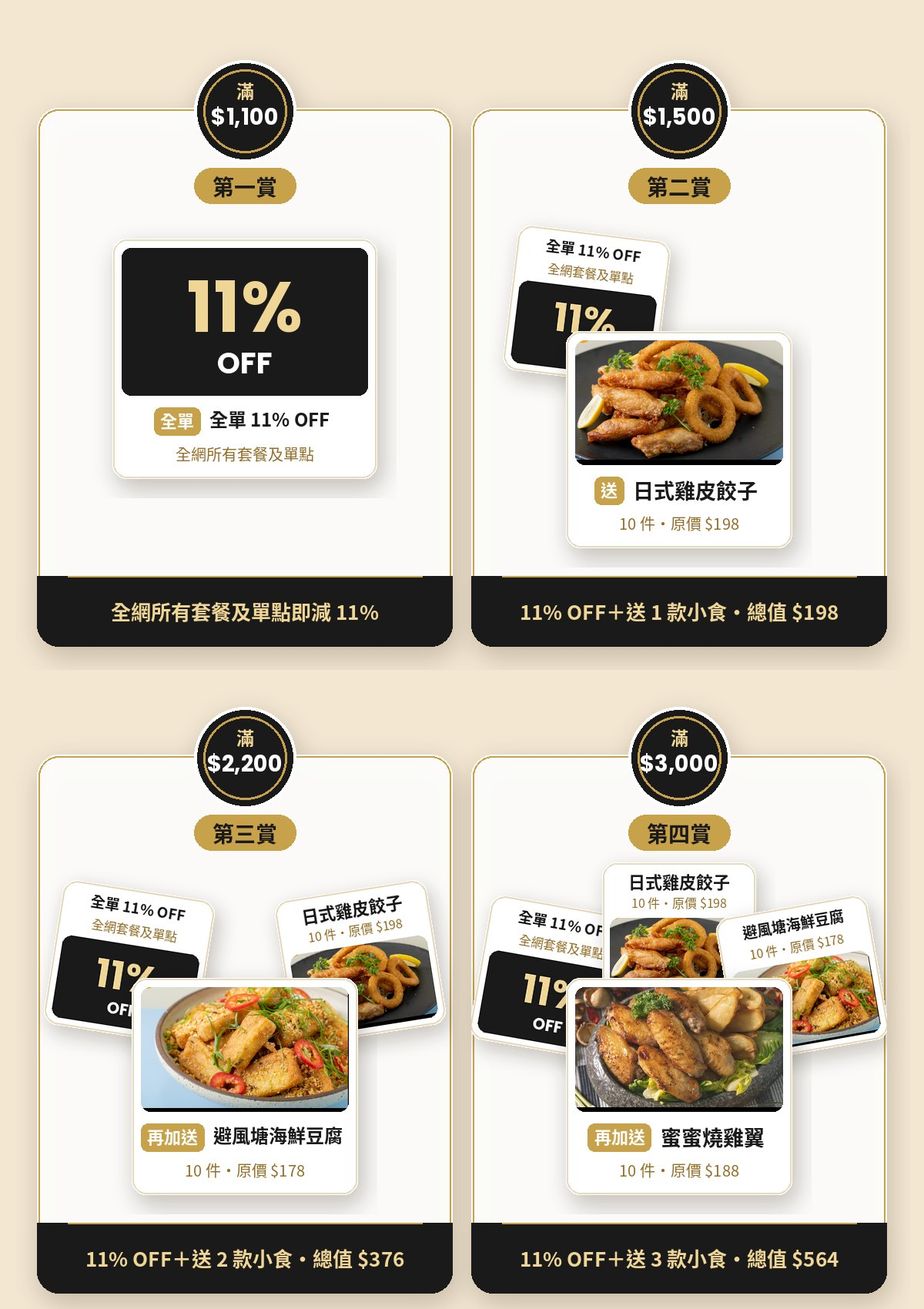
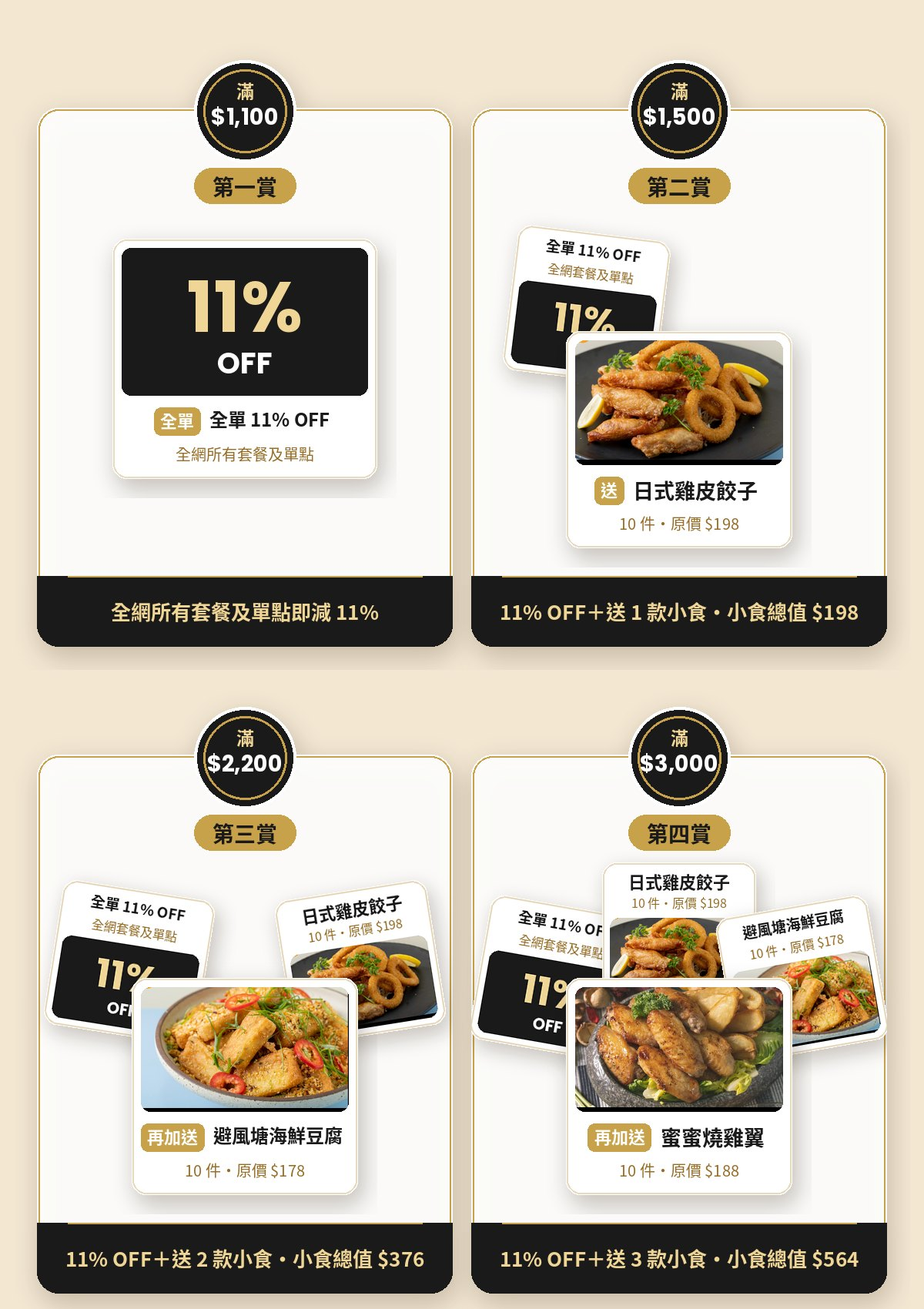
b

Changed region(s): [[0.555, 0.4365, 0.925, 0.4988], [0.0617, 0.9353, 0.4625, 0.9665], [0.555, 0.9353, 0.925, 0.9665]]

diff --git a/1111-2026/email.html b/1111-2026/email.html
@@ -63,7 +63,7 @@ Kitchen AO — 2026 雙 11 四重賞 EDM — Raw HTML for FluentCRM
 
 <!--[if mso]><table role="presentation" width="680" align="center" cellpadding="0" cellspacing="0"><tr><td><![endif]-->
 <table role="presentation" class="container" width="100%" cellpadding="0" cellspacing="0" style="width:100%;max-width:680px;margin:0 auto;background:#ffffff;border-radius:14px;overflow:hidden;font-family:Arial,'PingFang HK','Microsoft JhengHei',sans-serif;">
-<tr><td style="padding:14px 20px 12px;background:#ffffff;border-bottom:2px solid #C8A24A;"><table role="presentation" width="100%" cellpadding="0" cellspacing="0"><tr><td align="center" style="padding-bottom:11px;"><a href="https://aoaodelivery.com/?utm_source=edm&utm_medium=email&utm_campaign=1111_2026" target="_blank" rel="noopener noreferrer"><img class="hlogo" src="https://aoaodelivery.com/wp-content/uploads/2023/08/kitchenAO_logo_horizontal.png" width="185" alt="Kitchen AO" style="width:185px;height:auto;margin:0 auto;display:block;"></a></td></tr><tr><td align="center" class="nav"><table role="presentation" cellpadding="0" cellspacing="0" align="center" style="border-collapse:collapse;"><tr><td class="navblk" bgcolor="#1A1A1A" style="background:#1A1A1A;border-radius:6px 0 0 6px;"><a href="https://aoaodelivery.com/?utm_source=edm&utm_medium=email&utm_campaign=1111_2026" target="_blank" rel="noopener noreferrer" style="display:block;padding:8px 13px;color:#ffffff;font-size:14px;font-weight:bold;text-decoration:none;white-space:nowrap;">網站首頁</a></td><td class="navblk" bgcolor="#1A1A1A" style="background:#1A1A1A;border-left:1px solid #C8A24A;"><a href="https://aoaodelivery.com/1111/?utm_source=edm&utm_medium=email&utm_campaign=1111_2026" target="_blank" rel="noopener noreferrer" style="display:block;padding:8px 13px;color:#ffffff;font-size:14px;font-weight:bold;text-decoration:none;white-space:nowrap;">雙 11 優惠</a></td><td class="navgold" bgcolor="#C8A24A" style="background:#C8A24A;border-radius:0 6px 6px 0;border-left:1px solid #ffffff;"><a href="https://wa.me/85269011987?text=%E4%BD%A0%E5%A5%BD%EF%BC%8C%E6%88%91%E6%83%B3%E6%9F%A5%E8%A9%A2%E9%9B%99%2011%20%E5%B9%B4%E5%B0%BE%E9%A3%AF%E5%B1%80%E9%A0%90%E8%B3%BC" target="_blank" rel="noopener noreferrer" style="display:block;padding:8px 13px;color:#1A1A1A;font-size:14px;font-weight:bold;text-decoration:none;white-space:nowrap;">WhatsApp</a></td></tr></table></td></tr></table></td></tr><tr><td style="padding:11px 24px;background:#FBF7EE;border-bottom:1px solid #EEE6D6;"><div style="font-size:14.5px;color:#1A1A1A;font-weight:bold;">{{contact.first_name|"朋友"}}，你好 👋</div><div style="font-size:13.5px;color:#9A8f7e;margin-top:3px;">電子報・2026 年 11 月・雙 11 優惠號</div></td></tr><tr><td style="padding:0;background:#F3E7D2;font-size:0;line-height:0;"><a href="https://aoaodelivery.com/1111/?utm_source=edm&utm_medium=email&utm_campaign=1111_2026" target="_blank" rel="noopener noreferrer"><img src="https://expandsolutionshk.github.io/kitchenao-edm/1111-2026/img/d11-kv.jpg" width="680" alt="11.11 一連七天：滿 HK$1,100 全網 11% OFF，滿 HK$1,500 起再送人氣小食，最多送 3 款" style="width:100%;max-width:680px;height:auto;display:block;border:0;"></a></td></tr><tr><td style="padding:22px 22px 26px;background:#F3E7D2;"><table role="presentation" width="100%" cellpadding="0" cellspacing="0" style="background:#FBF7EE;border:2px solid #C8A24A;border-radius:16px;overflow:hidden;"><tr><td align="center" bgcolor="#1A1A1A" style="background:#1A1A1A;padding:12px 16px;color:#E4C77E;font-size:16px;font-weight:bold;letter-spacing:2px;">優惠期　2026.11.11 至 11.17</td></tr><tr><td align="center" valign="middle" style="padding:20px 16px 18px;"><p style="margin:0 0 4px;color:#9A7B2E;font-size:12px;font-weight:bold;letter-spacing:4px;">優惠碼</p><p style="margin:0;color:#1A1A1A;font-family:Arial,Helvetica,sans-serif;font-size:34px;line-height:40px;font-weight:bold;letter-spacing:5px;">DOUBLE11</p><p style="margin:6px 0 0;color:#9A8F7E;font-size:12.5px;">結帳時輸入優惠碼（長按或選取即可複製）</p></td></tr></table></td></tr><tr><td align="center" style="padding:34px 40px 6px;background:#ffffff;"><div style="width:46px;height:4px;border-radius:3px;background:#C8A24A;margin:0 auto 18px;"></div><p style="margin:0 auto;max-width:460px;color:#5d534d;font-size:15.5px;line-height:1.95;">多謝你一直支持 Kitchen AO。雙 11 一連七天，網站下單滿 HK$1,100，輸入優惠碼 DOUBLE11 即享全網 11% OFF；滿 HK$1,500 起更可額外獲贈人氣小食，會員優惠亦照常享用。</p></td></tr><tr><td align="center" style="padding:20px 30px 34px;background:#ffffff;"><table role="presentation" cellpadding="0" cellspacing="0" align="center" width="100%" style="margin:0 auto;width:100%;max-width:320px;"><tr><td align="center" bgcolor="#1A1A1A" style="background:#1A1A1A;border-radius:40px;"><a href="https://aoaodelivery.com/1111/?utm_source=edm&utm_medium=email&utm_campaign=1111_2026" target="_blank" rel="noopener noreferrer" style="display:block;padding:15px 20px;color:#E4C77E;font-size:18px;font-weight:bold;letter-spacing:2px;text-decoration:none;border-radius:40px;text-align:center;">立即網站下單</a></td></tr></table></td></tr><tr><td align="center" style="padding:30px 20px 10px;background:#F3E7D2;"><p style="margin:0 0 4px;color:#9A7B2E;font-size:12px;font-weight:bold;letter-spacing:3px;">FOUR REWARDS</p><p style="margin:0 0 4px;color:#1A1A1A;font-size:24px;line-height:32px;font-weight:800;">雙 11 四重賞</p><p style="margin:0 0 14px;color:#7A6A50;font-size:14.5px;line-height:21px;">一連七天，網站下單結帳時輸入優惠碼，系統按訂單金額自動計算。</p><table role="presentation" cellpadding="0" cellspacing="0" align="center" style="margin:0 auto;"><tr><td style="padding:6px 12px;color:#9A8F7E;font-size:12px;font-weight:bold;letter-spacing:2px;">優惠碼</td><td bgcolor="#1A1A1A" style="background:#1A1A1A;border-radius:10px;padding:10px 24px;color:#C8A24A;font-family:Arial,Helvetica,sans-serif;font-size:26px;line-height:30px;font-weight:bold;letter-spacing:4px;">DOUBLE11</td></tr></table></td></tr><tr><td style="padding:16px 0 0;background:#F3E7D2;font-size:0;line-height:0;"><a href="https://aoaodelivery.com/1111/?utm_source=edm&utm_medium=email&utm_campaign=1111_2026" target="_blank" rel="noopener noreferrer"><img src="https://expandsolutionshk.github.io/kitchenao-edm/1111-2026/img/d11-rewards.jpg" width="680" alt="雙 11 四重賞：第一賞滿 HK$1,100 全單 11% OFF；第二賞滿 HK$1,500 送日式雞皮餃子 10 件（原價 $198）；第三賞滿 HK$2,200 再加送避風塘海鮮豆腐 10 件（原價 $178）；第四賞滿 HK$3,000 再加送蜜蜜燒雞翼 10 件（原價 $188）" style="width:100%;max-width:680px;height:auto;display:block;border:0;"></a></td></tr><tr><td style="padding:0 0 22px;background:#F3E7D2;font-size:0;line-height:0;">&nbsp;</td></tr><tr><td align="center" style="padding:30px 24px 6px;background:#ffffff;"><p style="margin:0 0 4px;color:#9A7B2E;font-size:12px;font-weight:bold;letter-spacing:3px;">MEMBER ZONE</p><p style="margin:0 0 6px;color:#1A1A1A;font-size:22px;line-height:30px;font-weight:800;">雙 11 優惠以外，會員優惠照常享用</p><p style="margin:0;color:#7A7268;font-size:14.5px;line-height:22px;">網站下單，「多買多賞」及舊會員專屬優惠可與雙 11 四重賞同時享用。</p></td></tr><tr><td style="padding:14px 20px 8px;background:#ffffff;"><a href="https://aoaodelivery.com/%e6%9c%80%e6%96%b0%e6%b6%88%e6%81%af/?utm_source=edm&utm_medium=email&utm_campaign=1111_2026" target="_blank" rel="noopener noreferrer"><img src="https://aoaodelivery.com/wp-content/uploads/2024/10/%E6%9C%83%E5%93%A1%E5%84%AA%E6%83%A0_%E5%B7%A5%E4%BD%9C%E5%8D%80%E5%9F%9F-1-2048x852.jpg" width="640" alt="多買多賞：網站下單每滿 HK$1,500 送精選堅果或薯片 1 包，每滿 HK$2,200 送「有得解」或冷泡茶 6 包，每滿 HK$3,000 送精選紅白葡萄酒 1 枝，無封頂" style="width:100%;max-width:640px;height:auto;display:block;border:0;border-radius:12px;"></a></td></tr><tr><td style="padding:8px 20px 26px;background:#ffffff;"><a href="https://aoaodelivery.com/%e6%9c%80%e6%96%b0%e6%b6%88%e6%81%af/?utm_source=edm&utm_medium=email&utm_campaign=1111_2026" target="_blank" rel="noopener noreferrer"><img src="https://aoaodelivery.com/wp-content/uploads/2024/10/%E6%9C%83%E5%93%A1%E5%84%AA%E6%83%A0-02-2048x852.jpg" width="640" alt="舊會員專屬優惠：上一張訂單金額每 HK$2,000，是次消費減 HK$100，如此類推" style="width:100%;max-width:640px;height:auto;display:block;border:0;border-radius:12px;"></a></td></tr><tr><td align="center" style="padding:18px 30px 6px;background:#ffffff;"><table role="presentation" width="100%" cellpadding="0" cellspacing="0" style="background:#FBF7EE;border:1px solid #C8A24A;border-radius:14px;"><tr><td align="left" style="padding:16px 18px;"><p style="margin:0;color:#8a5a00;font-size:15px;font-weight:700;line-height:1.9;">📅 優惠期：2026 年 11 月 11 日至 17 日<br>🏷 優惠碼：DOUBLE11<br>🎁 滿 HK$1,100 全網 11% OFF；滿 HK$1,500 起再送人氣小食<br>⭐ 會員多買多賞及舊會員優惠照常享用</p></td></tr></table></td></tr><tr><td align="center" style="padding:18px 30px 30px;background:#ffffff;"><table role="presentation" cellpadding="0" cellspacing="0" align="center" class="btn-primary" width="100%" style="margin:0 auto;width:100%;max-width:300px;"><tr><td align="center" style="border-radius:40px;"><a href="https://aoaodelivery.com/1111/?utm_source=edm&utm_medium=email&utm_campaign=1111_2026" target="_blank" rel="noopener noreferrer" style="display:block;padding:16px 20px;font-size:18px;font-weight:bold;letter-spacing:1px;text-decoration:none;border-radius:40px;text-align:center;">立即網站下單</a></td></tr></table><table role="presentation" cellpadding="0" cellspacing="0" align="center" width="100%" style="margin:10px auto 0;width:100%;max-width:300px;"><tr><td align="center" bgcolor="#ffffff" style="border-radius:40px;border:1px solid #1A1A1A;"><a href="https://wa.me/85269011987?text=%E4%BD%A0%E5%A5%BD%EF%BC%8C%E6%88%91%E6%83%B3%E6%9F%A5%E8%A9%A2%E9%9B%99%2011%20%E5%B9%B4%E5%B0%BE%E9%A3%AF%E5%B1%80%E9%A0%90%E8%B3%BC" target="_blank" rel="noopener noreferrer" style="display:block;padding:12px 20px;color:#1A1A1A;font-size:17px;font-weight:bold;letter-spacing:1px;text-decoration:none;border-radius:40px;text-align:center;">WhatsApp 查詢</a></td></tr></table></td></tr><tr><td style="padding:0 30px 26px;background:#ffffff;"><p style="margin:0;color:#9A8F7E;font-size:12px;line-height:19px;">條款：優惠只適用於 2026 年 11 月 11 日至 17 日期間於網站完成付款的訂單；贈品按單一訂單金額計算；贈品數量有限，送完即止，不可兌換現金；如有任何爭議，Kitchen AO 保留最終決定權。</p></td></tr>
+<tr><td style="padding:14px 20px 12px;background:#ffffff;border-bottom:2px solid #C8A24A;"><table role="presentation" width="100%" cellpadding="0" cellspacing="0"><tr><td align="center" style="padding-bottom:11px;"><a href="https://aoaodelivery.com/?utm_source=edm&utm_medium=email&utm_campaign=1111_2026" target="_blank" rel="noopener noreferrer"><img class="hlogo" src="https://aoaodelivery.com/wp-content/uploads/2023/08/kitchenAO_logo_horizontal.png" width="185" alt="Kitchen AO" style="width:185px;height:auto;margin:0 auto;display:block;"></a></td></tr><tr><td align="center" class="nav"><table role="presentation" cellpadding="0" cellspacing="0" align="center" style="border-collapse:collapse;"><tr><td class="navblk" bgcolor="#1A1A1A" style="background:#1A1A1A;border-radius:6px 0 0 6px;"><a href="https://aoaodelivery.com/?utm_source=edm&utm_medium=email&utm_campaign=1111_2026" target="_blank" rel="noopener noreferrer" style="display:block;padding:8px 13px;color:#ffffff;font-size:14px;font-weight:bold;text-decoration:none;white-space:nowrap;">網站首頁</a></td><td class="navblk" bgcolor="#1A1A1A" style="background:#1A1A1A;border-left:1px solid #C8A24A;"><a href="https://aoaodelivery.com/1111/?utm_source=edm&utm_medium=email&utm_campaign=1111_2026" target="_blank" rel="noopener noreferrer" style="display:block;padding:8px 13px;color:#ffffff;font-size:14px;font-weight:bold;text-decoration:none;white-space:nowrap;">雙 11 優惠</a></td><td class="navgold" bgcolor="#C8A24A" style="background:#C8A24A;border-radius:0 6px 6px 0;border-left:1px solid #ffffff;"><a href="https://wa.me/85269011987?text=%E4%BD%A0%E5%A5%BD%EF%BC%8C%E6%88%91%E6%83%B3%E6%9F%A5%E8%A9%A2%E9%9B%99%2011%20%E5%84%AA%E6%83%A0" target="_blank" rel="noopener noreferrer" style="display:block;padding:8px 13px;color:#1A1A1A;font-size:14px;font-weight:bold;text-decoration:none;white-space:nowrap;">WhatsApp</a></td></tr></table></td></tr></table></td></tr><tr><td style="padding:11px 24px;background:#FBF7EE;border-bottom:1px solid #EEE6D6;"><div style="font-size:14.5px;color:#1A1A1A;font-weight:bold;">{{contact.first_name|"朋友"}}，你好 👋</div><div style="font-size:13.5px;color:#9A8f7e;margin-top:3px;">電子報・2026 年 11 月・雙 11 優惠號</div></td></tr><tr><td style="padding:0;background:#F3E7D2;font-size:0;line-height:0;"><a href="https://aoaodelivery.com/1111/?utm_source=edm&utm_medium=email&utm_campaign=1111_2026" target="_blank" rel="noopener noreferrer"><img src="https://expandsolutionshk.github.io/kitchenao-edm/1111-2026/img/d11-kv.jpg" width="680" alt="11.11 一連七天：滿 HK$1,100 全網 11% OFF，滿 HK$1,500 起再送人氣小食，最多送 3 款" style="width:100%;max-width:680px;height:auto;display:block;border:0;"></a></td></tr><tr><td style="padding:22px 22px 26px;background:#F3E7D2;"><table role="presentation" width="100%" cellpadding="0" cellspacing="0" style="background:#FBF7EE;border:2px solid #C8A24A;border-radius:16px;overflow:hidden;"><tr><td align="center" bgcolor="#1A1A1A" style="background:#1A1A1A;padding:12px 16px;color:#E4C77E;font-size:16px;font-weight:bold;letter-spacing:2px;">優惠期　2026.11.11 至 11.17</td></tr><tr><td align="center" valign="middle" style="padding:20px 16px 18px;"><p style="margin:0 0 4px;color:#9A7B2E;font-size:12px;font-weight:bold;letter-spacing:4px;">優惠碼</p><p style="margin:0;color:#1A1A1A;font-family:Arial,Helvetica,sans-serif;font-size:34px;line-height:40px;font-weight:bold;letter-spacing:5px;">DOUBLE11</p><p style="margin:6px 0 0;color:#9A8F7E;font-size:12.5px;">結帳時輸入優惠碼（長按或選取即可複製）</p></td></tr></table></td></tr><tr><td align="center" style="padding:34px 40px 6px;background:#ffffff;"><div style="width:46px;height:4px;border-radius:3px;background:#C8A24A;margin:0 auto 18px;"></div><p style="margin:0 auto;max-width:460px;color:#5d534d;font-size:15.5px;line-height:1.95;">多謝你一直支持 Kitchen AO。雙 11 一連七天，網站下單滿 HK$1,100，輸入優惠碼 DOUBLE11 即享全網 11% OFF；滿 HK$1,500 起更可額外獲贈人氣小食，會員優惠亦照常享用。</p></td></tr><tr><td align="center" style="padding:20px 30px 34px;background:#ffffff;"><table role="presentation" cellpadding="0" cellspacing="0" align="center" width="100%" style="margin:0 auto;width:100%;max-width:320px;"><tr><td align="center" bgcolor="#1A1A1A" style="background:#1A1A1A;border-radius:40px;"><a href="https://aoaodelivery.com/1111/?utm_source=edm&utm_medium=email&utm_campaign=1111_2026" target="_blank" rel="noopener noreferrer" style="display:block;padding:15px 20px;color:#E4C77E;font-size:18px;font-weight:bold;letter-spacing:2px;text-decoration:none;border-radius:40px;text-align:center;">立即網站下單</a></td></tr></table></td></tr><tr><td align="center" style="padding:30px 20px 10px;background:#F3E7D2;"><p style="margin:0 0 4px;color:#9A7B2E;font-size:12px;font-weight:bold;letter-spacing:3px;">FOUR REWARDS</p><p style="margin:0 0 4px;color:#1A1A1A;font-size:24px;line-height:32px;font-weight:800;">雙 11 四重賞</p><p style="margin:0 0 14px;color:#7A6A50;font-size:14.5px;line-height:21px;">一連七天，網站下單結帳時輸入優惠碼，系統按訂單金額自動計算。</p><table role="presentation" cellpadding="0" cellspacing="0" align="center" style="margin:0 auto;"><tr><td style="padding:6px 12px;color:#9A8F7E;font-size:12px;font-weight:bold;letter-spacing:2px;">優惠碼</td><td bgcolor="#1A1A1A" style="background:#1A1A1A;border-radius:10px;padding:10px 24px;color:#C8A24A;font-family:Arial,Helvetica,sans-serif;font-size:26px;line-height:30px;font-weight:bold;letter-spacing:4px;">DOUBLE11</td></tr></table></td></tr><tr><td style="padding:16px 0 0;background:#F3E7D2;font-size:0;line-height:0;"><a href="https://aoaodelivery.com/1111/?utm_source=edm&utm_medium=email&utm_campaign=1111_2026" target="_blank" rel="noopener noreferrer"><img src="https://expandsolutionshk.github.io/kitchenao-edm/1111-2026/img/d11-rewards.jpg" width="680" alt="雙 11 四重賞：第一賞滿 HK$1,100 全單 11% OFF；第二賞滿 HK$1,500 送日式雞皮餃子 10 件（原價 $198）；第三賞滿 HK$2,200 再加送避風塘海鮮豆腐 10 件（原價 $178）；第四賞滿 HK$3,000 再加送蜜蜜燒雞翼 10 件（原價 $188）" style="width:100%;max-width:680px;height:auto;display:block;border:0;"></a></td></tr><tr><td style="padding:0 0 22px;background:#F3E7D2;font-size:0;line-height:0;">&nbsp;</td></tr><tr><td align="center" style="padding:30px 24px 6px;background:#ffffff;"><p style="margin:0 0 4px;color:#9A7B2E;font-size:12px;font-weight:bold;letter-spacing:3px;">MEMBER ZONE</p><p style="margin:0 0 6px;color:#1A1A1A;font-size:22px;line-height:30px;font-weight:800;">雙 11 優惠以外，會員優惠照常享用</p><p style="margin:0;color:#7A7268;font-size:14.5px;line-height:22px;">網站下單，「多買多賞」及舊會員專屬優惠可與雙 11 四重賞同時享用。</p></td></tr><tr><td style="padding:14px 20px 8px;background:#ffffff;"><a href="https://aoaodelivery.com/%e6%9c%80%e6%96%b0%e6%b6%88%e6%81%af/?utm_source=edm&utm_medium=email&utm_campaign=1111_2026" target="_blank" rel="noopener noreferrer"><img src="https://aoaodelivery.com/wp-content/uploads/2024/10/%E6%9C%83%E5%93%A1%E5%84%AA%E6%83%A0_%E5%B7%A5%E4%BD%9C%E5%8D%80%E5%9F%9F-1-2048x852.jpg" width="640" alt="多買多賞：網站下單每滿 HK$1,500 送精選堅果或薯片 1 包，每滿 HK$2,200 送「有得解」或冷泡茶 6 包，每滿 HK$3,000 送精選紅白葡萄酒 1 枝，無封頂" style="width:100%;max-width:640px;height:auto;display:block;border:0;border-radius:12px;"></a></td></tr><tr><td style="padding:8px 20px 26px;background:#ffffff;"><a href="https://aoaodelivery.com/%e6%9c%80%e6%96%b0%e6%b6%88%e6%81%af/?utm_source=edm&utm_medium=email&utm_campaign=1111_2026" target="_blank" rel="noopener noreferrer"><img src="https://aoaodelivery.com/wp-content/uploads/2024/10/%E6%9C%83%E5%93%A1%E5%84%AA%E6%83%A0-02-2048x852.jpg" width="640" alt="舊會員專屬優惠：上一張訂單金額每 HK$2,000，是次消費減 HK$100，如此類推" style="width:100%;max-width:640px;height:auto;display:block;border:0;border-radius:12px;"></a></td></tr><tr><td align="center" style="padding:18px 30px 6px;background:#ffffff;"><table role="presentation" width="100%" cellpadding="0" cellspacing="0" style="background:#FBF7EE;border:1px solid #C8A24A;border-radius:14px;"><tr><td align="left" style="padding:16px 18px;"><p style="margin:0;color:#8a5a00;font-size:15px;font-weight:700;line-height:1.9;">📅 優惠期：2026 年 11 月 11 日至 17 日<br>🏷 優惠碼：DOUBLE11<br>🎁 滿 HK$1,100 全網 11% OFF；滿 HK$1,500 起再送人氣小食<br>⭐ 會員多買多賞及舊會員優惠照常享用</p></td></tr></table></td></tr><tr><td align="center" style="padding:18px 30px 30px;background:#ffffff;"><table role="presentation" cellpadding="0" cellspacing="0" align="center" class="btn-primary" width="100%" style="margin:0 auto;width:100%;max-width:300px;"><tr><td align="center" style="border-radius:40px;"><a href="https://aoaodelivery.com/1111/?utm_source=edm&utm_medium=email&utm_campaign=1111_2026" target="_blank" rel="noopener noreferrer" style="display:block;padding:16px 20px;font-size:18px;font-weight:bold;letter-spacing:1px;text-decoration:none;border-radius:40px;text-align:center;">立即網站下單</a></td></tr></table><table role="presentation" cellpadding="0" cellspacing="0" align="center" width="100%" style="margin:10px auto 0;width:100%;max-width:300px;"><tr><td align="center" bgcolor="#ffffff" style="border-radius:40px;border:1px solid #1A1A1A;"><a href="https://wa.me/85269011987?text=%E4%BD%A0%E5%A5%BD%EF%BC%8C%E6%88%91%E6%83%B3%E6%9F%A5%E8%A9%A2%E9%9B%99%2011%20%E5%84%AA%E6%83%A0" target="_blank" rel="noopener noreferrer" style="display:block;padding:12px 20px;color:#1A1A1A;font-size:17px;font-weight:bold;letter-spacing:1px;text-decoration:none;border-radius:40px;text-align:center;">WhatsApp 查詢</a></td></tr></table></td></tr><tr><td style="padding:0 30px 26px;background:#ffffff;"><p style="margin:0;color:#9A8F7E;font-size:12px;line-height:19px;">條款：優惠只適用於 2026 年 11 月 11 日至 17 日期間於網站完成付款的訂單；贈品按單一訂單金額計算；贈品數量有限，送完即止，不可兌換現金；如有任何爭議，Kitchen AO 保留最終決定權。</p></td></tr>
   <!-- ============================================================ -->
   <!-- 6. 人氣到會系列 — 6 格 (名+描述+黑掣) -->
   <!-- ============================================================ -->
@@ -94,7 +94,7 @@ Kitchen AO — 2026 雙 11 四重賞 EDM — Raw HTML for FluentCRM
   <tr><td align="center" style="padding:34px 40px;background:#1A1A1A;">
     <p style="margin:0 0 16px;color:#ffffff;font-size:17px;line-height:22px;">大量訂購或度身訂造餐單</p>
     <table role="presentation" cellpadding="0" cellspacing="0" align="center"><tr><td align="center" bgcolor="#ffffff" style="border-radius:40px;">
-      <a href="https://wa.me/85269011987?text=%E4%BD%A0%E5%A5%BD%EF%BC%8C%E6%88%91%E6%83%B3%E6%9F%A5%E8%A9%A2%E9%9B%99%2011%20%E5%B9%B4%E5%B0%BE%E9%A3%AF%E5%B1%80%E9%A0%90%E8%B3%BC" target="_blank" rel="noopener noreferrer" style="display:inline-block;padding:13px 30px;color:#9A7B2E;font-size:17px;font-weight:bold;letter-spacing:1px;text-decoration:none;border-radius:40px;">📱 WhatsApp 即時查詢</a>
+      <a href="https://wa.me/85269011987?text=%E4%BD%A0%E5%A5%BD%EF%BC%8C%E6%88%91%E6%83%B3%E6%9F%A5%E8%A9%A2%E9%9B%99%2011%20%E5%84%AA%E6%83%A0" target="_blank" rel="noopener noreferrer" style="display:inline-block;padding:13px 30px;color:#9A7B2E;font-size:17px;font-weight:bold;letter-spacing:1px;text-decoration:none;border-radius:40px;">📱 WhatsApp 即時查詢</a>
     </td></tr></table>
     <p style="margin:14px 0 0;font-size:15px;"><a href="https://aoaodelivery.com/catering-quote-enquiry/?utm_source=edm&utm_medium=email&utm_campaign=1111_2026" target="_blank" rel="noopener noreferrer" style="color:#C8A24A;">或填免費報價查詢 →</a></p>
   </td></tr>

diff --git a/1111-2026/landing-rawhtml.html b/1111-2026/landing-rawhtml.html
@@ -188,7 +188,7 @@
   <div>
    <p class="lead">12 月至 2 月是年會、團年飯及春茗旺季。於 11 月 11 日或之前確認報價，即享企業早鳥禮遇，並優先安排檔期。</p>
    <ul class="a11-check"><li>11 月 11 日或之前確認年會報價</li><li>早鳥禮遇 <span class="tbd">〔待定〕</span></li><li>優先安排 12 月至 2 月旺季檔期</li><li>專人跟進餐單、人數及送餐安排</li></ul>
-   <a class="a11-btn p" href="https://wa.me/85269011987?text=%E4%BD%A0%E5%A5%BD%EF%BC%8C%E6%88%91%E6%83%B3%E6%9F%A5%E8%A9%A2%E9%9B%99%2011%20%E5%B9%B4%E5%B0%BE%E9%A3%AF%E5%B1%80%E9%A0%90%E8%B3%BC" target="_blank" data-ga="1111_corp_wa">WhatsApp 企業客戶專員</a><a class="a11-btn s" href="https://aoaodelivery.com/catering-quote-enquiry/" target="_blank" data-ga="1111_corp_form">填寫報價表格</a>
+   <a class="a11-btn p" href="https://wa.me/85269011987?text=%E4%BD%A0%E5%A5%BD%EF%BC%8C%E6%88%91%E6%83%B3%E6%9F%A5%E8%A9%A2%E9%9B%99%2011%20%E5%84%AA%E6%83%A0" target="_blank" data-ga="1111_corp_wa">WhatsApp 企業客戶專員</a><a class="a11-btn s" href="https://aoaodelivery.com/catering-quote-enquiry/" target="_blank" data-ga="1111_corp_form">填寫報價表格</a>
    <p class="more"><a href="https://aoaodelivery.com/corporate-catering-hk/" target="_blank">了解公司到會服務 →</a></p>
   </div>
   <img src="https://aoaodelivery.com/wp-content/uploads/2026/03/WhatsApp-Image-2026-03-25-at-3.58.36-PM-768x1024.jpeg" alt="Kitchen AO 公司年會到會" loading="lazy">
@@ -208,7 +208,7 @@
 <section class="a11-end">
  <h3>早一步預訂，旺季不用等</h3>
  <p>年三十及年會旺季名額有限，雙 11 先鎖定。</p>
- <a class="a11-btn p" href="#a11-shop" data-ga="1111_end_shop">立即預購</a><a class="a11-btn s" href="https://wa.me/85269011987?text=%E4%BD%A0%E5%A5%BD%EF%BC%8C%E6%88%91%E6%83%B3%E6%9F%A5%E8%A9%A2%E9%9B%99%2011%20%E5%B9%B4%E5%B0%BE%E9%A3%AF%E5%B1%80%E9%A0%90%E8%B3%BC" target="_blank" data-ga="1111_end_wa">WhatsApp 查詢</a>
+ <a class="a11-btn p" href="#a11-shop" data-ga="1111_end_shop">立即預購</a><a class="a11-btn s" href="https://wa.me/85269011987?text=%E4%BD%A0%E5%A5%BD%EF%BC%8C%E6%88%91%E6%83%B3%E6%9F%A5%E8%A9%A2%E9%9B%99%2011%20%E5%84%AA%E6%83%A0" target="_blank" data-ga="1111_end_wa">WhatsApp 查詢</a>
 </section>
 
 <details class="a11-terms"><summary>條款及細則</summary><ul>
@@ -220,7 +220,7 @@
  <li>如有任何爭議，Kitchen AO 保留最終決定權。</li>
 </ul></details>
 
-<div class="a11-sticky"><a class="p" href="#a11-shop" data-ga="1111_sticky_shop">立即預購</a><a class="s" href="https://wa.me/85269011987?text=%E4%BD%A0%E5%A5%BD%EF%BC%8C%E6%88%91%E6%83%B3%E6%9F%A5%E8%A9%A2%E9%9B%99%2011%20%E5%B9%B4%E5%B0%BE%E9%A3%AF%E5%B1%80%E9%A0%90%E8%B3%BC" target="_blank" data-ga="1111_sticky_wa">WhatsApp</a></div>
+<div class="a11-sticky"><a class="p" href="#a11-shop" data-ga="1111_sticky_shop">立即預購</a><a class="s" href="https://wa.me/85269011987?text=%E4%BD%A0%E5%A5%BD%EF%BC%8C%E6%88%91%E6%83%B3%E6%9F%A5%E8%A9%A2%E9%9B%99%2011%20%E5%84%AA%E6%83%A0" target="_blank" data-ga="1111_sticky_wa">WhatsApp</a></div>
 </div>
 <script>(function(){var R=document.getElementById('a11');if(!R)return;
 var T=R.querySelectorAll('.a11-tabs button'),P=R.querySelectorAll('.a11-pane');

diff --git a/1111-2026/landing.html b/1111-2026/landing.html
@@ -188,7 +188,7 @@
   <div>
    <p class="lead">12 月至 2 月是年會、團年飯及春茗旺季。於 11 月 11 日或之前確認報價，即享企業早鳥禮遇，並優先安排檔期。</p>
    <ul class="a11-check"><li>11 月 11 日或之前確認年會報價</li><li>早鳥禮遇 <span class="tbd">〔待定〕</span></li><li>優先安排 12 月至 2 月旺季檔期</li><li>專人跟進餐單、人數及送餐安排</li></ul>
-   <a class="a11-btn p" href="https://wa.me/85269011987?text=%E4%BD%A0%E5%A5%BD%EF%BC%8C%E6%88%91%E6%83%B3%E6%9F%A5%E8%A9%A2%E9%9B%99%2011%20%E5%B9%B4%E5%B0%BE%E9%A3%AF%E5%B1%80%E9%A0%90%E8%B3%BC" target="_blank" data-ga="1111_corp_wa">WhatsApp 企業客戶專員</a><a class="a11-btn s" href="https://aoaodelivery.com/catering-quote-enquiry/" target="_blank" data-ga="1111_corp_form">填寫報價表格</a>
+   <a class="a11-btn p" href="https://wa.me/85269011987?text=%E4%BD%A0%E5%A5%BD%EF%BC%8C%E6%88%91%E6%83%B3%E6%9F%A5%E8%A9%A2%E9%9B%99%2011%20%E5%84%AA%E6%83%A0" target="_blank" data-ga="1111_corp_wa">WhatsApp 企業客戶專員</a><a class="a11-btn s" href="https://aoaodelivery.com/catering-quote-enquiry/" target="_blank" data-ga="1111_corp_form">填寫報價表格</a>
    <p class="more"><a href="https://aoaodelivery.com/corporate-catering-hk/" target="_blank">了解公司到會服務 →</a></p>
   </div>
   <img src="https://aoaodelivery.com/wp-content/uploads/2026/03/WhatsApp-Image-2026-03-25-at-3.58.36-PM-768x1024.jpeg" alt="Kitchen AO 公司年會到會" loading="lazy">
@@ -208,7 +208,7 @@
 <section class="a11-end">
  <h3>早一步預訂，旺季不用等</h3>
  <p>年三十及年會旺季名額有限，雙 11 先鎖定。</p>
- <a class="a11-btn p" href="#a11-shop" data-ga="1111_end_shop">立即預購</a><a class="a11-btn s" href="https://wa.me/85269011987?text=%E4%BD%A0%E5%A5%BD%EF%BC%8C%E6%88%91%E6%83%B3%E6%9F%A5%E8%A9%A2%E9%9B%99%2011%20%E5%B9%B4%E5%B0%BE%E9%A3%AF%E5%B1%80%E9%A0%90%E8%B3%BC" target="_blank" data-ga="1111_end_wa">WhatsApp 查詢</a>
+ <a class="a11-btn p" href="#a11-shop" data-ga="1111_end_shop">立即預購</a><a class="a11-btn s" href="https://wa.me/85269011987?text=%E4%BD%A0%E5%A5%BD%EF%BC%8C%E6%88%91%E6%83%B3%E6%9F%A5%E8%A9%A2%E9%9B%99%2011%20%E5%84%AA%E6%83%A0" target="_blank" data-ga="1111_end_wa">WhatsApp 查詢</a>
 </section>
 
 <details class="a11-terms"><summary>條款及細則</summary><ul>
@@ -220,7 +220,7 @@
  <li>如有任何爭議，Kitchen AO 保留最終決定權。</li>
 </ul></details>
 
-<div class="a11-sticky"><a class="p" href="#a11-shop" data-ga="1111_sticky_shop">立即預購</a><a class="s" href="https://wa.me/85269011987?text=%E4%BD%A0%E5%A5%BD%EF%BC%8C%E6%88%91%E6%83%B3%E6%9F%A5%E8%A9%A2%E9%9B%99%2011%20%E5%B9%B4%E5%B0%BE%E9%A3%AF%E5%B1%80%E9%A0%90%E8%B3%BC" target="_blank" data-ga="1111_sticky_wa">WhatsApp</a></div>
+<div class="a11-sticky"><a class="p" href="#a11-shop" data-ga="1111_sticky_shop">立即預購</a><a class="s" href="https://wa.me/85269011987?text=%E4%BD%A0%E5%A5%BD%EF%BC%8C%E6%88%91%E6%83%B3%E6%9F%A5%E8%A9%A2%E9%9B%99%2011%20%E5%84%AA%E6%83%A0" target="_blank" data-ga="1111_sticky_wa">WhatsApp</a></div>
 </div>
 <script>(function(){var R=document.getElementById('a11');if(!R)return;
 var T=R.querySelectorAll('.a11-tabs button'),P=R.querySelectorAll('.a11-pane');

diff --git a/1111-2026/build.py b/1111-2026/build.py
@@ -11,7 +11,7 @@ H = os.path.dirname(os.path.abspath(__file__))
 B = 'https://aoaodelivery.com'
 U = B + '/wp-content/uploads/'
 LP = B + '/1111/'
-WA = 'https://wa.me/85269011987?text=%E4%BD%A0%E5%A5%BD%EF%BC%8C%E6%88%91%E6%83%B3%E6%9F%A5%E8%A9%A2%E9%9B%99%2011%20%E5%B9%B4%E5%B0%BE%E9%A3%AF%E5%B1%80%E9%A0%90%E8%B3%BC'  # 你好，我想查詢雙 11 年尾飯局預購
+WA = 'https://wa.me/85269011987?text=%E4%BD%A0%E5%A5%BD%EF%BC%8C%E6%88%91%E6%83%B3%E6%9F%A5%E8%A9%A2%E9%9B%99%2011%20%E5%84%AA%E6%83%A0'  # 你好，我想查詢雙 11 優惠
 TBD = '〔待定〕'
 
 # ---------- 產品（全部有圖） ----------
@@ -413,7 +413,7 @@ def edm():
         return (f'<tr><td style="padding:8px 20px;background:#F3E7D2;"><table role="presentation" width="100%" cellpadding="0" cellspacing="0" style="background:#ffffff;border:1px solid #E3CFA6;border-radius:14px;"><tr><td style="padding:16px 14px 14px;">'
                 f'<table role="presentation" width="100%" cellpadding="0" cellspacing="0"><tr><td valign="middle"><span style="display:inline-block;background:#C8A24A;color:#1A1A1A;font-size:12px;font-weight:bold;padding:3px 10px;border-radius:10px;">{lv}</span>'
                 f'<span style="color:#1A1A1A;font-size:18px;font-weight:800;margin-left:8px;">滿 HK${amt}{more}</span></td>'
-                f'<td align="right" valign="middle" style="color:#9A7B2E;font-size:13px;font-weight:bold;white-space:nowrap;">送 {len(ks)} 款・總值 HK${val}</td></tr></table>'
+                f'<td align="right" valign="middle" style="color:#9A7B2E;font-size:13px;font-weight:bold;white-space:nowrap;">送 {len(ks)} 款・小食總值 HK${val}</td></tr></table>'
                 f'<p style="margin:6px 0 10px;color:#7A6A50;font-size:13.5px;">全單 11% OFF 之外，再送：</p>'
                 f'<table role="presentation" width="100%" cellpadding="0" cellspacing="0" style="background:#FBF7EE;border-radius:10px;"><tr>{cells}</tr></table>'
                 '</td></tr></table></td></tr>')

diff --git a/1111-2026/make_kv3.py b/1111-2026/make_kv3.py
@@ -178,9 +178,9 @@ def _float(c, rot, blur=12, off=(6, 10), alpha=65):
     s.paste((70, 45, 15, alpha), (25 + off[0], 25 + off[1]), c.getchannel('A')); s = s.filter(ImageFilter.GaussianBlur(blur)); s.alpha_composite(c, (25, 25)); return s
 TIER = [  # (第幾賞, 金額, 後排, 前卡, 動詞, 總結)
  ('第一賞', '1,100', [], 'off', '全單', '全網所有套餐及單點即減 11%'),
- ('第二賞', '1,500', ['off'], 'a1600', '送', '11% OFF＋送 1 款小食・總值 $198'),
- ('第三賞', '2,200', ['off', 'a1600'], 'a1500', '再加送', '11% OFF＋送 2 款小食・總值 $376'),
- ('第四賞', '3,000', ['off', 'a1600', 'a1500'], 'a0500', '再加送', '11% OFF＋送 3 款小食・總值 $564'),
+ ('第二賞', '1,500', ['off'], 'a1600', '送', '11% OFF＋送 1 款小食・小食總值 $198'),
+ ('第三賞', '2,200', ['off', 'a1600'], 'a1500', '再加送', '11% OFF＋送 2 款小食・小食總值 $376'),
+ ('第四賞', '3,000', ['off', 'a1600', 'a1500'], 'a0500', '再加送', '11% OFF＋送 3 款小食・小食總值 $564'),
 ]
 BACK_POS = {0: [], 1: [(-120, 10, -7)], 2: [(-150, 20, -9), (150, 20, 9)], 3: [(-160, 40, -10), (0, 0, 0), (160, 40, 10)]}
 PW, PH = 540, 700
